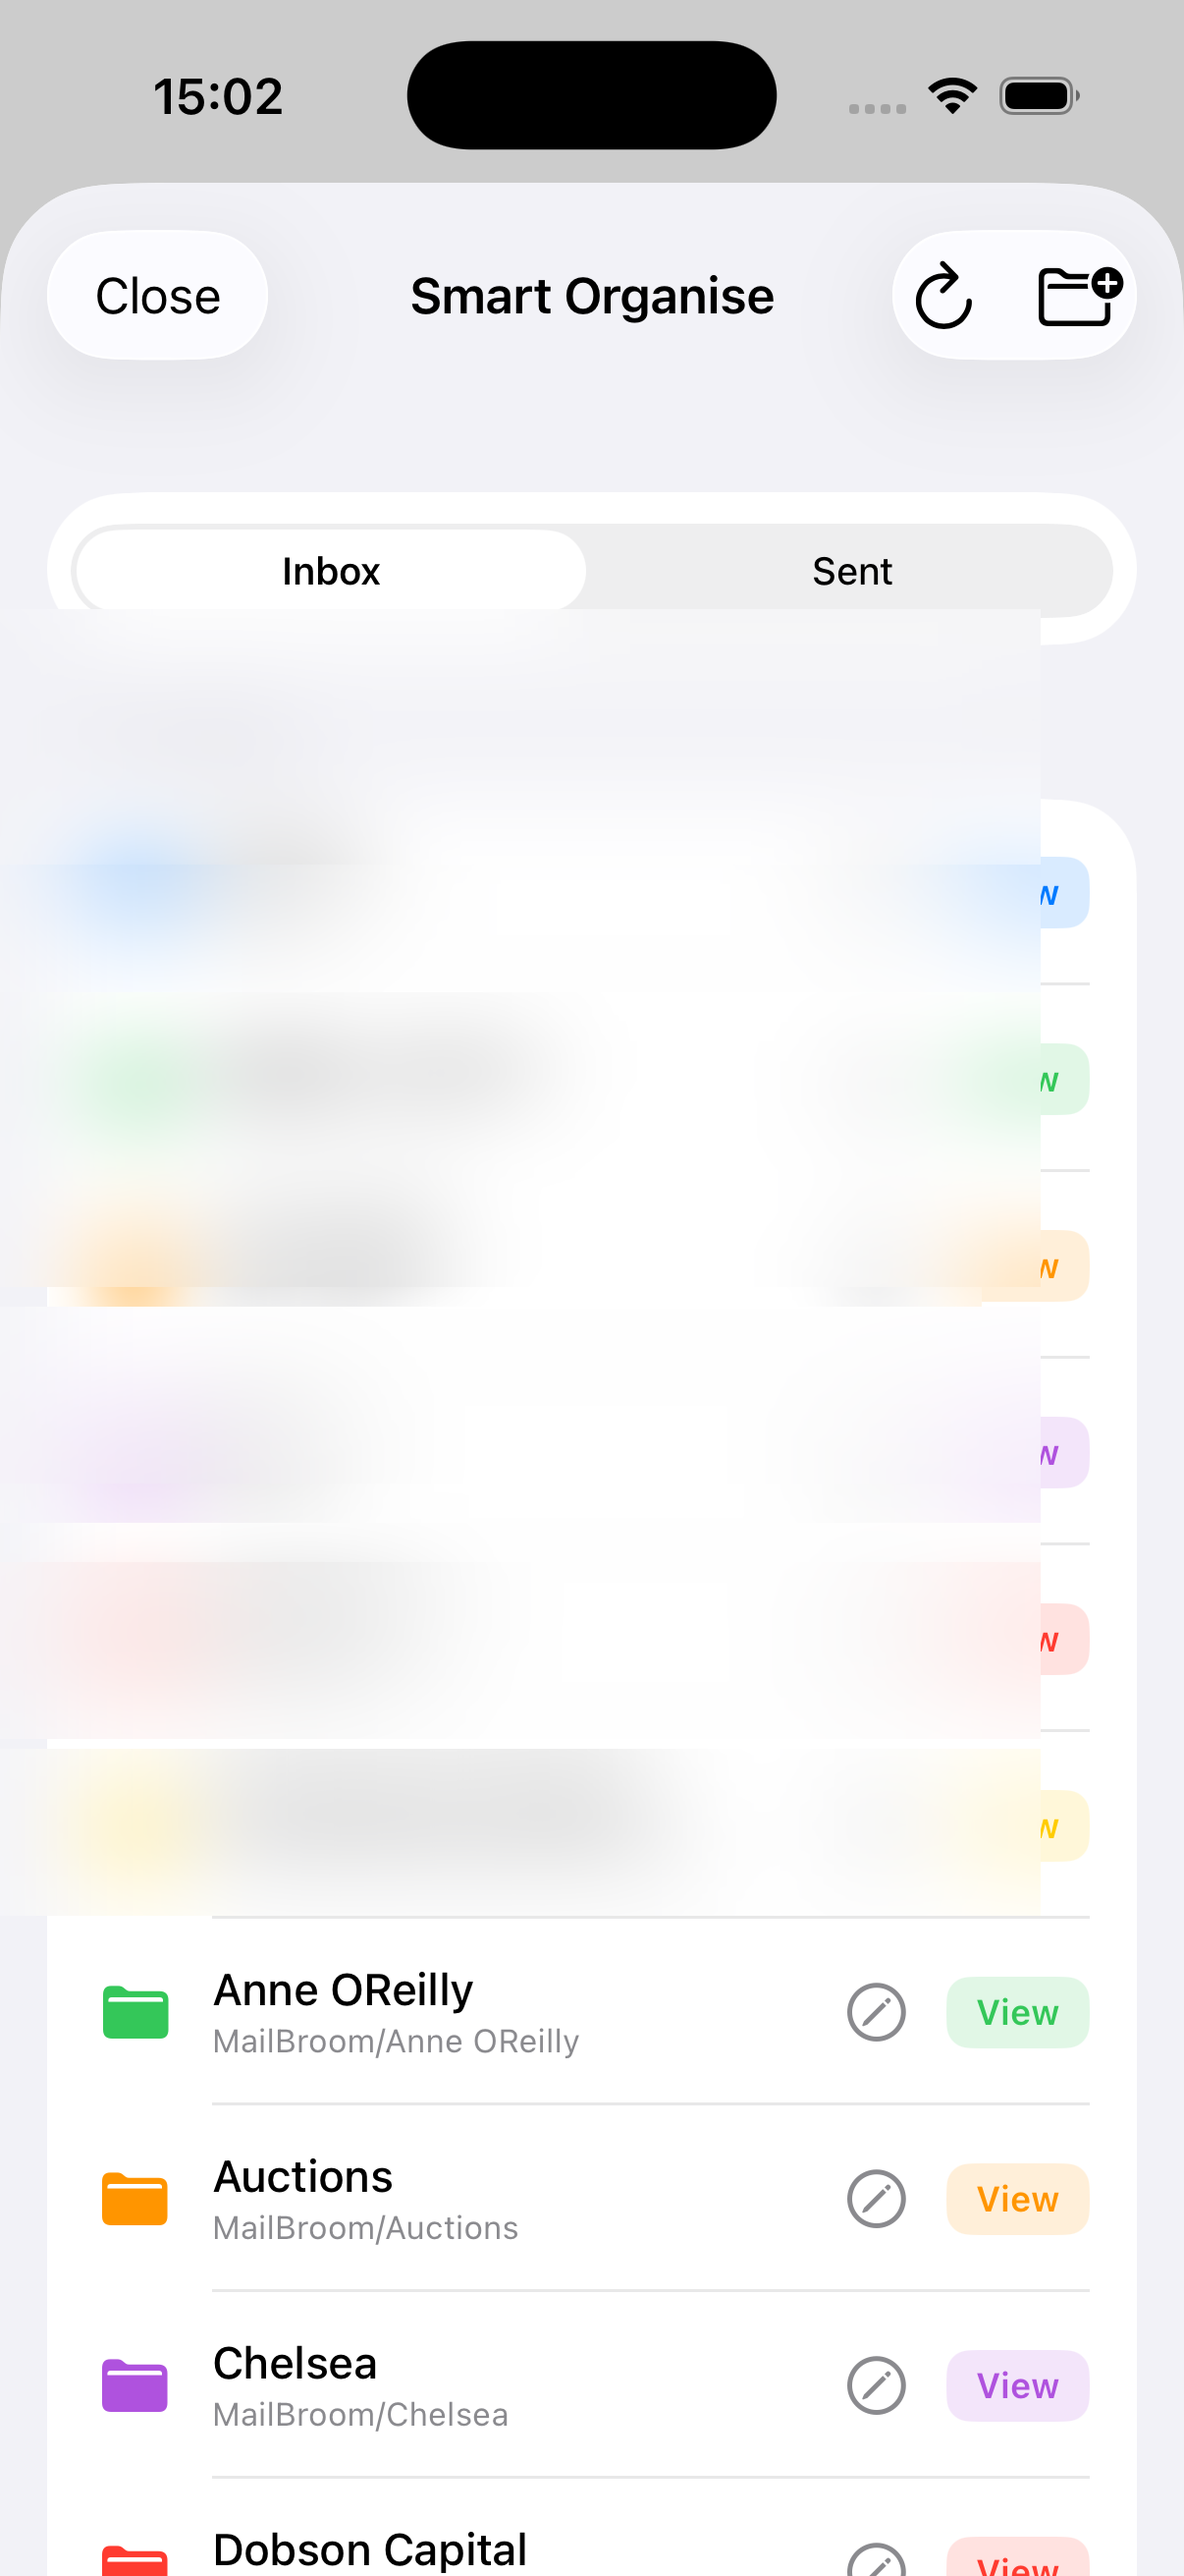
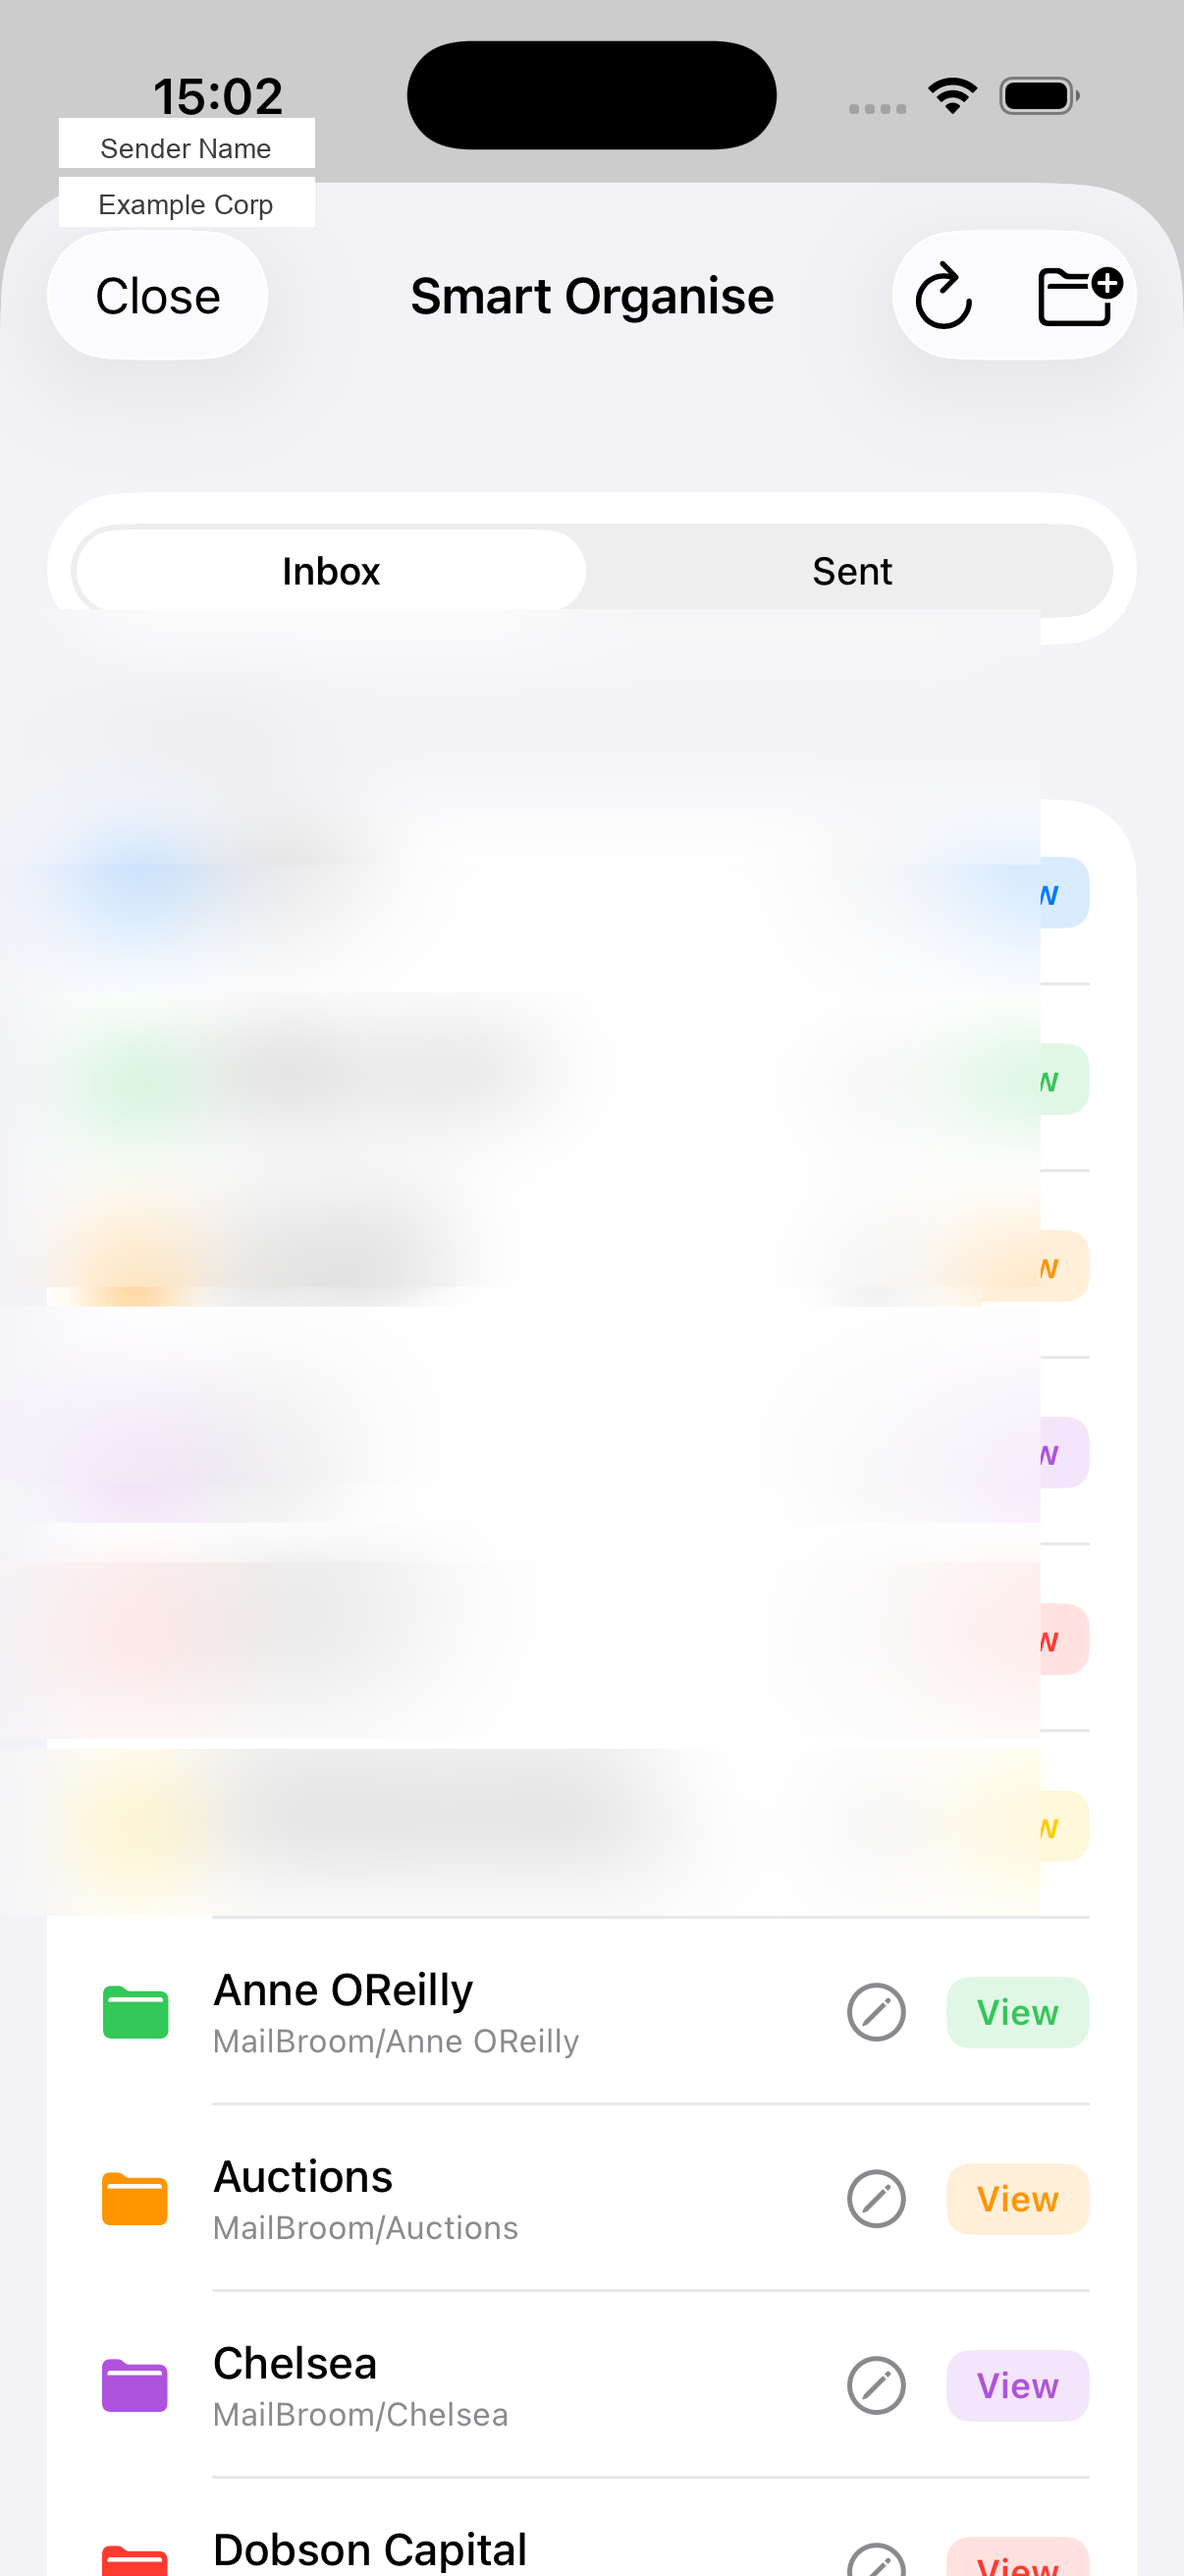
Obscure private details in smart-organise screenshot with generic labels

Changed region(s): [[0.0307, 0.0309, 0.2761, 0.0927]]

diff --git a/obscure_mailbroom_image.py b/obscure_mailbroom_image.py
@@ -1,0 +1,43 @@
+from PIL import Image, ImageDraw, ImageFont
+import os
+
+def obscure_and_label_image(input_path, output_path, boxes_labels):
+    # Open the image
+    img = Image.open(input_path).convert("RGBA")
+    draw = ImageDraw.Draw(img)
+
+    # Try to use a system font, fallback to default
+    try:
+        font = ImageFont.truetype("Arial.ttf", 28)
+    except:
+        font = ImageFont.load_default()
+
+    for box, label in boxes_labels:
+        # Draw a white rectangle over the sensitive area
+        draw.rectangle(box, fill=(255,255,255,220))
+        # Center the label in the box
+        # Use getbbox for PIL >=10
+        bbox = font.getbbox(label)
+        w, h = bbox[2] - bbox[0], bbox[3] - bbox[1]
+        x = box[0] + (box[2]-box[0]-w)//2
+        y = box[1] + (box[3]-box[1]-h)//2
+        draw.text((x, y), label, fill=(60,60,60,255), font=font)
+
+    img.save(output_path)
+
+# Define the regions to obscure (left, top, right, bottom) and replacement text
+# You may need to adjust these coordinates for your screenshot
+boxes_labels = [
+    ((60, 120, 320, 170), "Sender Name"),      # O'Reilly
+    ((60, 180, 320, 230), "Example Corp"),    # Dobson
+    # Add more boxes as needed for other blurred areas
+]
+
+input_img = "public/mailbroom/smart-organise.png"
+output_img = "public/mailbroom/smart-organise.png"
+
+if os.path.exists(input_img):
+    obscure_and_label_image(input_img, output_img, boxes_labels)
+    print("Image updated: private details obscured.")
+else:
+    print("Input image not found.")
